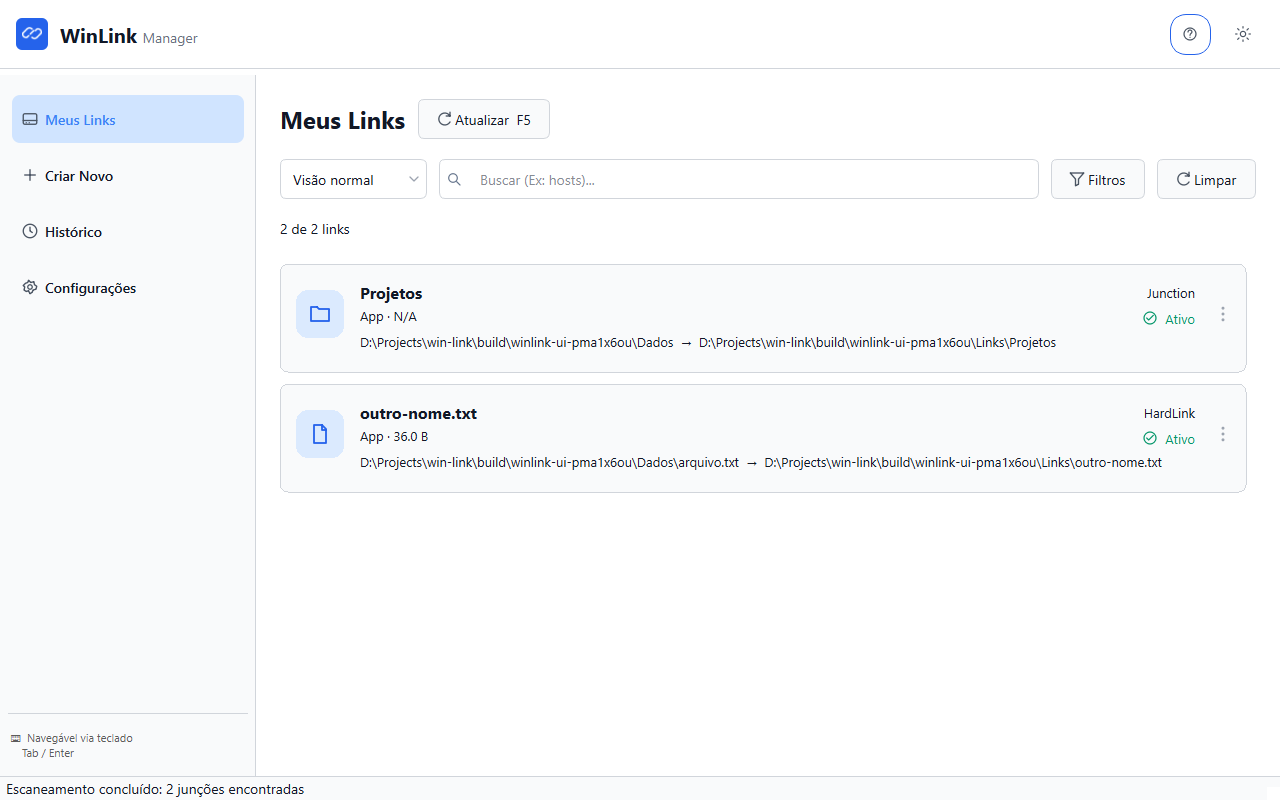
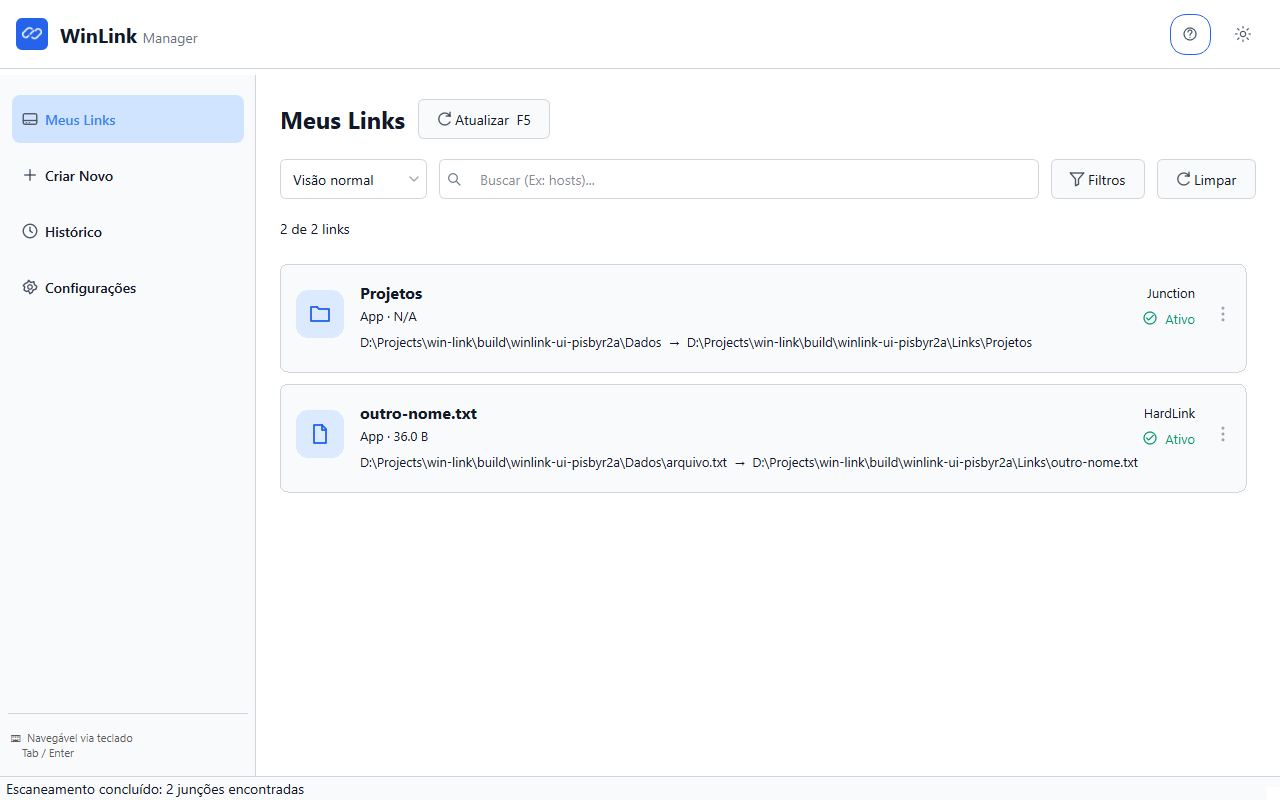
Persiste a apresentação de Meus Links e integra ajuda aos cartões

Changed region(s): [[0.4375, 0.5625, 0.9062, 0.5938], [0.4375, 0.4062, 0.8125, 0.4375]]

diff --git a/src/winlink/ui/dialogs/settings_dialog.py b/src/winlink/ui/dialogs/settings_dialog.py
@@ -48,9 +48,6 @@ class SettingsDialog(AnimatedDialog):
             "Configurações do WinLink",
             "Salve para aplicar. Restaurar padrões prepara os campos e também exige salvar.",
         )
-        density = QComboBox()
-        density.addItems(["Normal", "Compacta"])
-        field(layout, "Apresentação das configurações", density)
         content = QWidget()
         content.setObjectName("settingsContent")
         fields = QVBoxLayout(content)
@@ -60,6 +57,10 @@ class SettingsDialog(AnimatedDialog):
         for label, mode in [("Seguir sistema", "auto"), ("Claro", "light"), ("Escuro", "dark")]:
             self.theme_combo.addItem(label, mode)
         field(fields, "Tema", self.theme_combo)
+        self.link_view_combo = QComboBox()
+        self.link_view_combo.addItem("Normal", "normal")
+        self.link_view_combo.addItem("Compacta", "compact")
+        field(fields, "Apresentação de Meus Links", self.link_view_combo)
         self.default_type_combo = QComboBox()
         for label, value in [
             ("Junction", "junction"),
@@ -136,15 +137,6 @@ class SettingsDialog(AnimatedDialog):
         fields.addWidget(ActionRow([self.defaults_btn, self.discard_btn, self.save_btn]))
         fields.addWidget(self.cancel_btn)
 
-        def update_density(index):
-            compact = index == 1
-            layout.setSpacing(12 if compact else 20)
-            fields.setSpacing(6 if compact else 12)
-            directories.content.setContentsMargins(*(8 if compact else 16,) * 4)
-            self.scan_list.setMinimumHeight(64 if compact else 96)
-            self.scan_list.setMaximumHeight(96 if compact else 160)
-
-        density.currentIndexChanged.connect(update_density)
         layout.addWidget(content)
         layout.addStretch()
 
@@ -166,6 +158,8 @@ class SettingsDialog(AnimatedDialog):
         theme_index = self.theme_combo.findData(settings.theme_mode)
         if theme_index >= 0:
             self.theme_combo.setCurrentIndex(theme_index)
+
+        self.link_view_combo.setCurrentIndex(self.link_view_combo.findData(settings.link_view_mode))
 
         # Scan directories
         self.scan_list.clear()
@@ -233,6 +227,7 @@ class SettingsDialog(AnimatedDialog):
         # Update settings
         candidate.default_link_type = self.default_type_combo.currentData()
         candidate.theme_mode = self.theme_combo.currentData()
+        candidate.link_view_mode = self.link_view_combo.currentData()
         candidate.scan_directories = self._scan_directories
         candidate.confirm_before_destructive = self.confirm_checkbox.isChecked()
         candidate.auto_backup_before_undo = self.backup_checkbox.isChecked()

diff --git a/tests/test_ui_layout.py b/tests/test_ui_layout.py
@@ -146,21 +146,44 @@ def test_empty_state_remains_visible_when_switching_view_mode(window):
     assert window.empty_title.text() == "Nenhum link configurado"
 
 
-def test_settings_density_keeps_unsaved_values(window, qtbot):
-    from PyQt6.QtWidgets import QComboBox
+def test_settings_persist_default_link_view(window):
+    from winlink.core.config import get_settings
 
-    window.navigate(3)
     page = window.settings_page
-    density = next(combo for combo in page.findChildren(QComboBox) if combo.itemText(0) == "Normal")
-    page.log_level_combo.setCurrentText("DEBUG")
-    normal_height = page.scan_list.minimumHeight()
-    density.setCurrentIndex(1)
-    qtbot.wait(20)
-    assert page.scan_list.minimumHeight() < normal_height
-    assert page.log_level_combo.currentText() == "DEBUG"
-    density.setCurrentIndex(0)
-    assert page.scan_list.minimumHeight() == normal_height
-    assert page.log_level_combo.currentText() == "DEBUG"
+    assert window.view_mode.currentData() == "normal"
+    page.link_view_combo.setCurrentIndex(1)
+    assert get_settings().link_view_mode == "normal"
+    page.discard_changes()
+    assert page.link_view_combo.currentData() == "normal"
+
+    page.link_view_combo.setCurrentIndex(1)
+    page.save_settings()
+    assert get_settings().link_view_mode == "compact"
+    assert window.view_mode.currentData() == "compact"
+    assert window.link_views.currentIndex() == 2
+    reopened = MainWindow()
+    try:
+        assert reopened.view_mode.currentData() == "compact"
+    finally:
+        reopened.close()
+
+
+def test_type_help_is_inside_card_and_activates_without_selecting(window, qtbot):
+    from PyQt6.QtWidgets import QToolButton
+
+    window.navigate(1)
+    cards = window.create_page.type_cards
+    selected = [card.isChecked() for card in cards]
+    for card in cards:
+        help_button = card.findChild(QToolButton)
+        assert help_button is not None
+        assert card.rect().contains(help_button.geometry())
+        card.setFocus()
+        qtbot.keyClick(card, Qt.Key.Key_Tab)
+        assert help_button.hasFocus()
+        with qtbot.waitSignal(help_button.clicked):
+            qtbot.keyClick(help_button, Qt.Key.Key_Space)
+        assert [item.isChecked() for item in cards] == selected
 
 
 def test_compact_paths_share_width_and_can_be_resized(window, qtbot, tmp_path):

diff --git a/src/winlink/ui/components.py b/src/winlink/ui/components.py
@@ -87,14 +87,9 @@ def field(layout, text, widget):
     return label
 
 
-def help_row(widget, title, description, *, expand=False):
+def contextual_help(title, description):
     from PyQt6.QtWidgets import QToolButton, QToolTip
 
-    row = QWidget()
-    box = QHBoxLayout(row)
-    box.setContentsMargins(0, 0, 0, 0)
-    box.setSpacing(8)
-    box.addWidget(widget, int(expand))
     help_button = QToolButton()
     set_button_icon(help_button, "info")
     help_button.setAutoRaise(True)
@@ -107,9 +102,17 @@ def help_row(widget, title, description, *, expand=False):
             help_button.mapToGlobal(help_button.rect().bottomLeft()), description, help_button
         )
     )
-    box.addWidget(help_button)
-    if not expand:
-        box.addStretch()
+    return help_button
+
+
+def help_row(widget, title, description):
+    row = QWidget()
+    box = QHBoxLayout(row)
+    box.setContentsMargins(0, 0, 0, 0)
+    box.setSpacing(8)
+    box.addWidget(widget)
+    box.addWidget(contextual_help(title, description))
+    box.addStretch()
     return row
 
 
@@ -160,7 +163,7 @@ class Panel(QFrame):
 
 
 class TypeButton(QPushButton):
-    def __init__(self, title, description, icon):
+    def __init__(self, title, description, icon, help_text):
         super().__init__(title)
         from PyQt6.QtWidgets import QStyle, QStyleOptionButton, QStylePainter
 
@@ -180,6 +183,7 @@ class TypeButton(QPushButton):
         name.setObjectName("fieldLabel")
         row.addWidget(name)
         row.addStretch()
+        row.addWidget(contextual_help(title, help_text))
         box.addLayout(row)
         desc = QLabel(description)
         desc.setObjectName("muted")

diff --git a/src/winlink/ui/main_window.py b/src/winlink/ui/main_window.py
@@ -297,7 +297,9 @@ class MainWindow(QMainWindow):
         self.link_views.addWidget(self.card_view)
         self.link_views.addWidget(self.table_view)
         view_mode = QComboBox()
-        view_mode.addItems(["Visão normal", "Compacta"])
+        view_mode.addItem("Visão normal", "normal")
+        view_mode.addItem("Compacta", "compact")
+        view_mode.setCurrentIndex(view_mode.findData(self.settings.link_view_mode))
         self.view_mode = view_mode
         view_mode.currentIndexChanged.connect(
             lambda index: self.link_views.setCurrentIndex(
@@ -417,6 +419,7 @@ class MainWindow(QMainWindow):
         )
 
     def settings_saved(self):
+        self.view_mode.setCurrentIndex(self.view_mode.findData(self.settings.link_view_mode))
         self.apply_theme()
         self.quick_theme.setCurrentIndex(self.quick_theme.findData(self.settings.theme_mode))
         from winlink.utils.logger import setup_logger

diff --git a/src/winlink/ui/dialogs/create_junction_dialog.py b/src/winlink/ui/dialogs/create_junction_dialog.py
@@ -51,7 +51,6 @@ class CreateJunctionDialog(AnimatedDialog):
             TypeButton,
             button_style,
             heading,
-            help_row,
         )
         from winlink.ui.icons import symbol_icon
 
@@ -105,9 +104,9 @@ class CreateJunctionDialog(AnimatedDialog):
                 ("Hardlink", "Nomes equivalentes do mesmo arquivo e volume.", "file", 2, False),
             ]
         ):
-            button = TypeButton(title, desc, icon)
+            button = TypeButton(title, desc, icon, type_help[n])
             button.clicked.connect(lambda checked=False, i=index, f=file: self.select_type(i, f))
-            cards.addWidget(help_row(button, title, type_help[n], expand=True), n // 2, n % 2)
+            cards.addWidget(button, n // 2, n % 2)
             self.type_cards.append(button)
         cards.setColumnStretch(0, 1)
         cards.setColumnStretch(1, 1)

diff --git a/src/winlink/core/config.py b/src/winlink/core/config.py
@@ -50,6 +50,7 @@ class AppSettings(BaseSettings):
     log_to_console: bool = True
 
     # UI
+    link_view_mode: Literal["normal", "compact"] = "normal"
     window_width: int = 1200
     window_height: int = 800
     remember_window_size: bool = True

diff --git a/docs/UI.md b/docs/UI.md
@@ -56,7 +56,7 @@ Estados normal, hover, foco, seleção e desabilitado precisam continuar legíve
 | Propriedades | Caminhos completos, criador, data, estatísticas, indisponível/calculando e recalcular. Abrir pasta usa integração nativa; Reverter usa o mesmo fluxo protegido das demais entradas. |
 | Reversão | Revalidar identidade; diretórios oferecem remover link, mover de volta ou duplicar, com opção de backup. Arquivos removem somente o nome verificado. Não interpretar inacessível como vazio ou tamanho zero. |
 | Histórico | Distinguir operação e tipo de link; combinar resultado e datas inclusivas; marcar criação já desfeita; exportar todos os registros independentemente dos filtros. Limpar exige confirmação e não modifica links. |
-| Configurações | Salvar persiste; Restaurar padrões prepara rascunho; Descartar recarrega o salvo. Os modos normal e compacto ajustam a densidade da página durante a sessão e preservam o rascunho. Manter compatibilidade com preferências antigas e não apagar histórico/log personalizados ao restaurar preferências. |
+| Configurações | Salvar persiste; Restaurar padrões prepara rascunho; Descartar recarrega o salvo. A preferência de apresentação de Meus Links define o modo salvo para a lista. O seletor da lista permite alternar temporariamente. Manter compatibilidade com preferências antigas e não apagar histórico/log personalizados ao restaurar preferências. |
 
 Durante operações, preservar os bloqueios existentes contra ações conflitantes. Distinguir falha principal de falha apenas ao registrar histórico: uma criação bem-sucedida com erro no registro não deve incentivar repetição. Se a restauração já ocorreu e a limpeza falhou, informar os caminhos restaurado e preservado e orientar conferência, sem sugerir repetir a reversão.
 

diff --git a/docs/NOTAS-DE-VERSAO.md b/docs/NOTAS-DE-VERSAO.md
@@ -3,7 +3,7 @@
 - Cabeçalho com ícones para Sobre e para o tema do sistema (#40 e #41).
 - Busca com ação Limpar, colunas de caminhos com espaço distribuído e margem ao lado dos cartões (#42, #43 e #51).
 - Ajuda contextual para os quatro tipos de link (#39).
-- Modos normal e compacto em Configurações, com preferência local à página durante a sessão (#50).
+- Preferência persistente em Configurações para abrir Meus Links em modo normal ou compacto (#50).
 - Arte do instalador baseada na identidade visual do aplicativo (#55).
 
 # WinLink 0.1.3 — 05/11/2026
